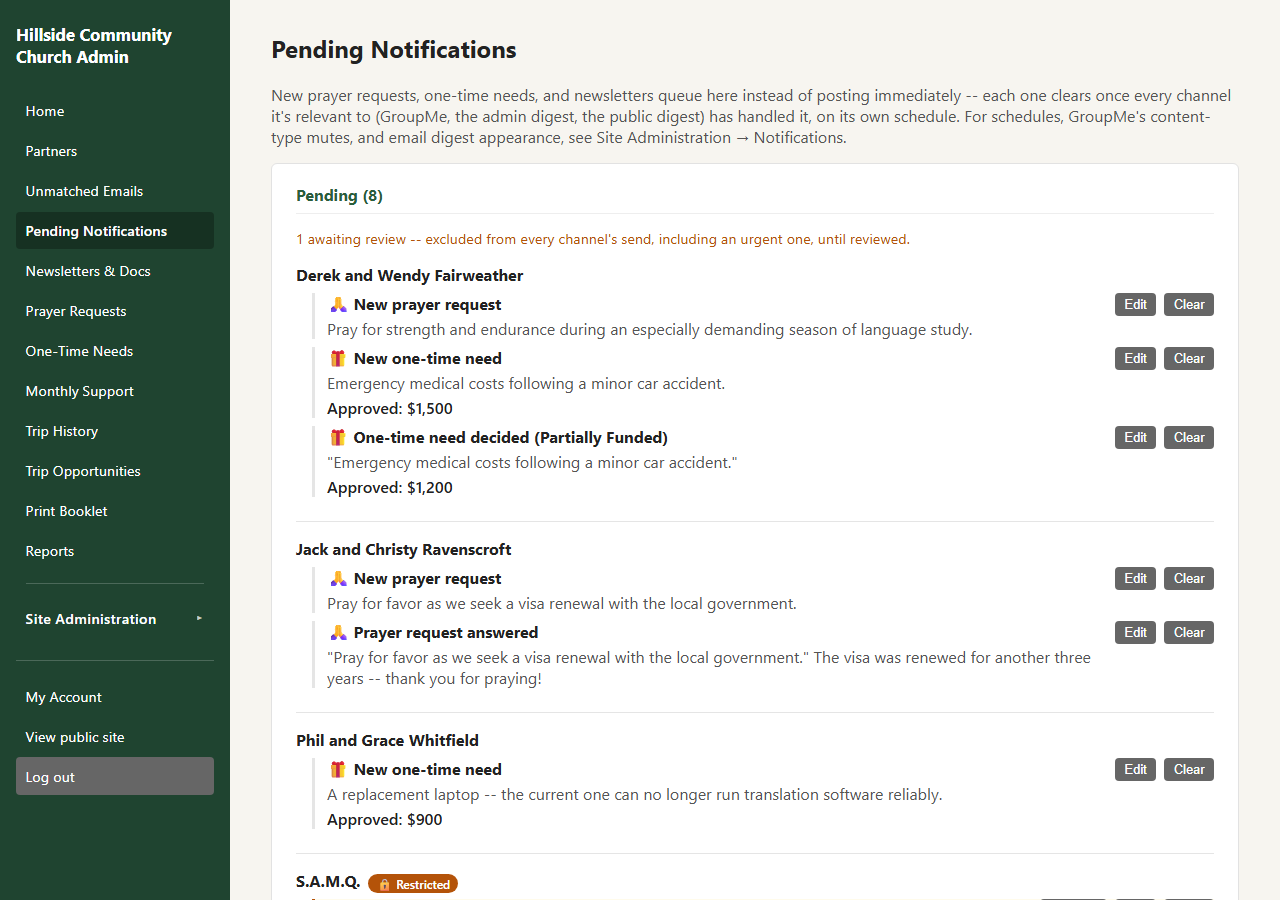
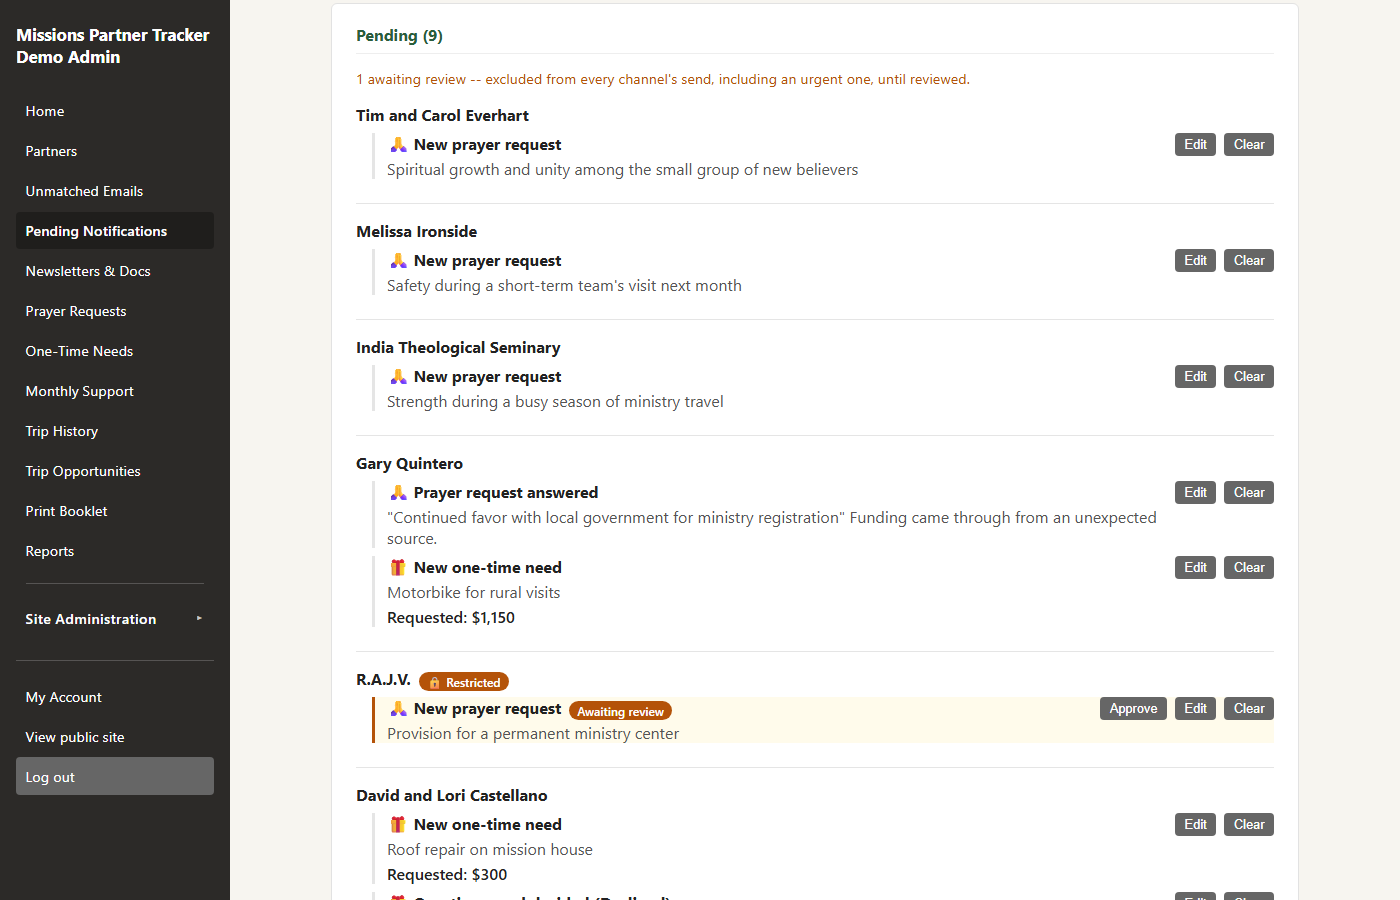
Add digest email audience examples to docs; recapture Pending Notifications to show the restricted partner (#221, #218)
- New backend/scripts/preview-digest.js (npm run preview:digest):
  renders the admin and public digest templates against fixture data
  via the real buildBlurb/buildAdminDigestContent/buildPublicDigestContent
  pipeline, no database or Postmark send needed. Writes HTML to a
  gitignored scripts/output/ for screenshotting.
- Screenshots the two rendered templates side by side into
  ADMIN_GUIDE.md's Notifications section, with a cross-reference from
  USER_GUIDE.md's Digest Customization section -- the one real visual
  difference between audiences (admin gets source links, newsletter
  titles, and one-time-need amounts; public is structurally
  prayer-requests-only) is now something a reader can actually see.
- Recaptures pending-notifications.png scrolled so the restricted
  partner's "Awaiting review" row is fully in frame, not cut off at
  the bottom like the previous capture.

diff --git a/backend/scripts/preview-digest.js b/backend/scripts/preview-digest.js
@@ -1,0 +1,207 @@
+// Renders the admin and public digest email templates against fixture
+// data and writes the result to disk as plain HTML, so a human can
+// actually look at what either audience's email looks like without
+// sending a real one through Postmark. Pure template rendering -- no
+// database, no network, no API key needed.
+//
+// The fixture rows are NotifiableEvent-shaped and run through the same
+// buildBlurb() every real channel calls (notificationBlurbs.js), not
+// hand-written blurb objects -- so this stays honest about what the
+// real pipeline actually produces instead of drifting from it the
+// first time buildBlurb's output shape changes.
+//
+// Usage:
+//   npm run preview:digest
+// Writes admin-digest-preview.html and public-digest-preview.html to
+// scripts/output/ (gitignored).
+const fs = require("fs");
+const path = require("path");
+const { buildBlurb } = require("../src/utils/notificationBlurbs");
+const { buildAdminDigestContent } = require("../src/utils/adminDigestContent");
+const { buildPublicDigestContent } = require("../src/utils/publicDigestContent");
+const { buildDigestMessage } = require("../src/utils/digestShell");
+const { silhouetteFor } = require("../src/utils/silhouette");
+const { missionaryHouseholdCategory } = require("../src/utils/maskData");
+
+// Set before anything calls appBaseUrl() (notificationBlurbs.js,
+// digestShell.js both read it lazily) so the admin preview actually
+// renders a "Read the source" button -- without this, sourceLinkUrl
+// resolves to null and the one real visual difference #221/#222 asked
+// about (admin gets source links, public structurally never does)
+// wouldn't show up in the preview at all. Pointed at the real live demo
+// rather than a placeholder domain so partnerTileDetails' silhouette
+// image (digestShell.js -- routes/silhouette.js is public, generic,
+// category-only, no partner data) actually resolves in a screenshot
+// instead of rendering as a broken image; the "Read the source" link
+// itself still won't resolve to a real file (fixture ids), which is
+// fine -- nothing clicks it, it's a rendered email preview.
+process.env.APP_BASE_URL = process.env.APP_BASE_URL || "https://missions-partner-tracker.onrender.com";
+
+const OUTPUT_DIR = path.join(__dirname, "output");
+
+const CHURCH_SETTINGS = {
+  churchName: "Hillside Community Church",
+  primaryColor: "#2a5d3c",
+  headerColor: "#2c2a28",
+  highlightColor: "#a6540f",
+  partnerTermPlural: "Missionaries",
+  partnerTermSingular: "Missionary",
+  digestSignature: "Grateful for your partnership,\nPastor Dave",
+};
+
+const PARTNERS = {
+  johnson: {
+    id: "fixture-johnson",
+    displayName: "The Johnson Family",
+    isRestricted: false,
+    kind: "missionary",
+    fieldDisplayName: "East Africa",
+    supportingSince: "2019-03-01",
+    overviewShort: "Church planting and leadership training.",
+    adults: [{}, {}],
+    children: [{}, {}],
+  },
+  martinez: {
+    id: "fixture-martinez",
+    displayName: "The Martinez Family",
+    isRestricted: false,
+    kind: "missionary",
+    fieldDisplayName: "Southeast Asia",
+    supportingSince: "2016-09-01",
+    overviewShort: "Bible translation and community development.",
+    adults: [{}, {}],
+    children: [],
+  },
+  osei: {
+    id: "fixture-osei",
+    displayName: "The Osei Family",
+    isRestricted: false,
+    kind: "missionary",
+    fieldDisplayName: "West Africa",
+    supportingSince: "2021-06-01",
+    overviewShort: "Medical clinic ministry.",
+    adults: [{}],
+    children: [],
+  },
+};
+
+const PARTNERS_BY_ID = new Map(Object.values(PARTNERS).map((p) => [p.id, p]));
+
+// One row per real event type the app actually records -- a prayer
+// request, a one-time need at both its creation and decision, and a
+// newsletter with a title (see #222/notificationBlurbs.js's
+// newsletterCreated case for why the title matters here).
+const ROWS = [
+  {
+    id: "fixture-1",
+    type: "prayerRequestCreated",
+    partnerId: PARTNERS.johnson.id,
+    reviewedAt: null,
+    reviewedText: null,
+    payload: {
+      partnerName: PARTNERS.johnson.displayName,
+      requestText: "Pray for safety as our family travels to a remote village for a two-week outreach trip.",
+      sourceFileId: 101,
+    },
+  },
+  {
+    id: "fixture-2",
+    type: "supportNeedCreated",
+    partnerId: PARTNERS.martinez.id,
+    reviewedAt: null,
+    reviewedText: null,
+    payload: {
+      partnerName: PARTNERS.martinez.displayName,
+      description: "Our vehicle's transmission failed and needs replacing before the rainy season starts.",
+      requestedAmount: 1450,
+      sourceFileId: null,
+    },
+  },
+  {
+    id: "fixture-3",
+    type: "supportNeedDecided",
+    partnerId: PARTNERS.martinez.id,
+    reviewedAt: null,
+    reviewedText: null,
+    payload: {
+      partnerName: PARTNERS.martinez.displayName,
+      description: "Our vehicle's transmission failed and needs replacing before the rainy season starts.",
+      requestedAmount: 1450,
+      approvedAmount: 1450,
+      decisionNote: "Approved from the discretionary fund at this month's elder meeting.",
+      sourceFileId: null,
+    },
+  },
+  {
+    id: "fixture-4",
+    type: "newsletterCreated",
+    partnerId: PARTNERS.osei.id,
+    reviewedAt: null,
+    reviewedText: null,
+    payload: {
+      partnerName: PARTNERS.osei.displayName,
+      title: "Spring Update: New Believers and a Building Project",
+      newsletterId: 202,
+    },
+  },
+];
+
+// Mirrors isEligibleForChannel's own structural rule for the public
+// digest (notificationEligibility.js): only prayer-request types are
+// ever eligible there. Filtering here, not just relying on
+// publicDigestContent.js's narrow renderItemHtml signature, keeps this
+// preview honest about *which rows* the public audience would ever see
+// in the first place, not just how the ones it does see get rendered.
+function eligibleForAudience(row, audience) {
+  if (audience === "admin") return true;
+  return row.type === "prayerRequestCreated" || row.type === "prayerRequestAnswered";
+}
+
+// A trimmed, local stand-in for digestShell.js's own partnerTileDetails --
+// that function resolves the photo to a live /api/silhouette/*.svg URL
+// whenever APP_BASE_URL is set (the right choice for a real email, where
+// most clients refuse a data: URI), but this script's own output is a
+// static HTML file opened straight from disk, and Chromium blocks a
+// file://-origin page from loading a cross-origin image at all
+// (ERR_BLOCKED_BY_RESPONSE.NotSameOrigin) -- confirmed while building this
+// script. Using the data: URI silhouetteFor() already returns sidesteps
+// that entirely and needs no network either way.
+function tileFor(partner) {
+  const category = partner.kind === "organization" ? "organization" : missionaryHouseholdCategory(partner);
+  return {
+    fieldDisplayName: partner.fieldDisplayName || null,
+    supportingSinceYear: partner.supportingSince ? new Date(partner.supportingSince).getFullYear() : null,
+    overviewShort: partner.overviewShort || null,
+    photoSrc: silhouetteFor(category),
+  };
+}
+
+function render(audience) {
+  const blurbs = ROWS.filter((row) => eligibleForAudience(row, audience))
+    .map((row) => buildBlurb(row, PARTNERS_BY_ID.get(row.partnerId)))
+    .filter(Boolean);
+
+  const partnerDetailsById = new Map([...PARTNERS_BY_ID.entries()].map(([id, p]) => [id, tileFor(p)]));
+
+  const content =
+    audience === "admin"
+      ? buildAdminDigestContent(blurbs, partnerDetailsById, CHURCH_SETTINGS)
+      : buildPublicDigestContent(blurbs, partnerDetailsById, CHURCH_SETTINGS);
+
+  const recipient = { email: "preview@example.org", name: "Preview", kind: audience, cadence: "monthly" };
+  // "#" as a placeholder unsubscribe link -- just enough for the footer
+  // to render realistically, not a real token (no SESSION_SECRET needed
+  // since we never call buildUnsubscribeToken/buildSubscriberUnsubscribeToken).
+  return buildDigestMessage(recipient, content, CHURCH_SETTINGS, "#");
+}
+
+function main() {
+  fs.mkdirSync(OUTPUT_DIR, { recursive: true });
+  for (const audience of ["admin", "public"]) {
+    const outPath = path.join(OUTPUT_DIR, `${audience}-digest-preview.html`);
+    fs.writeFileSync(outPath, render(audience).HtmlBody, "utf8");
+    console.log(`Wrote ${outPath}`);
+  }
+}
+
+main();

diff --git a/USER_GUIDE.md b/USER_GUIDE.md
@@ -904,6 +904,15 @@ you can see exactly what changes between the two before picking one.
 | --- | --- |
 | ![An example Classic-layout digest email](docs/assets/screenshots/digest-email-classic.png) | ![An example Snapshot-layout digest email, including a restricted partner's masked card](docs/assets/screenshots/digest-email-snapshot.png) |
 
+The layout choice above is shared by both audiences, but what each one
+actually *receives* isn't — a public subscriber's email only ever
+includes prayer requests, with no source link and no one-time-need
+amount, regardless of layout. See [ADMIN_GUIDE.md § Notifications:
+GroupMe, the admin digest, and the public
+digest](ADMIN_GUIDE.md#notifications-groupme-the-admin-digest-and-the-public-digest)
+for a side-by-side example of the same batch of events rendered for
+each audience.
+
 #### Email Schedule
 
 The one shared schedule for both the admin digest and the public

diff --git a/ADMIN_GUIDE.md b/ADMIN_GUIDE.md
@@ -648,6 +648,14 @@ backlog).
   carrying a source link at all, not just a check that happens to leave
   one out.
 
+Same batch of events, rendered for each audience, side by side — notice
+the admin version's source link, decision amount, and newsletter title,
+all structurally absent from the public one:
+
+| Admin digest | Public digest |
+| --- | --- |
+| ![An example admin digest email, with a source link and a one-time need's requested/approved amounts](docs/assets/screenshots/digest-email-admin.png) | ![The same batch of events rendered for the public digest -- prayer requests only, no source link, no amount](docs/assets/screenshots/digest-email-public.png) |
+
 Both email digests share one subject-line template, signature, and
 layout choice (Classic — text only, or Snapshot — adds each partner's
 photo/field/overview), all admin-configurable on the same Notifications
